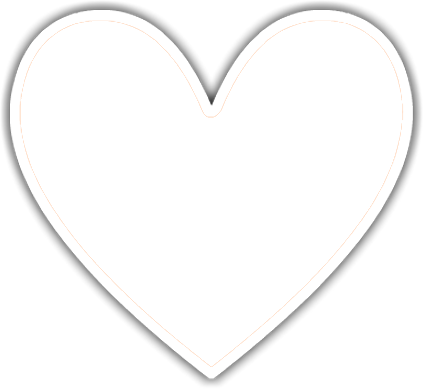
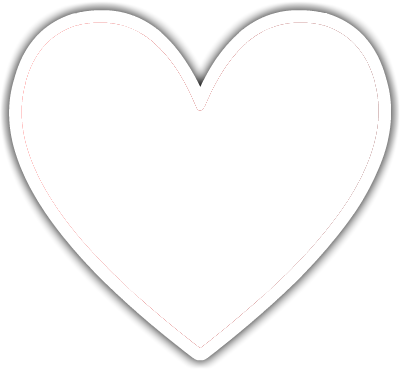
smaller heart with ticker border

diff --git a/public/js/directives.js b/public/js/directives.js
@@ -16,8 +16,7 @@ define(['angular'], function (angular) {
 			}
 		};
 	}).directive('heartProfile', function() {
-		var positions=[{x:199,y:367,b:1,r:1,c:1},{x:213,y:367,b:1,r:1,c:2},{x:181,y:353,b:1,r:2,c:1},{x:195,y:353,b:0,r:2,c:2},{x:209,y:353,b:0,r:2,c:3},{x:223,y:353,b:1,r:2,c:4},{x:163,y:339,b:1,r:3,c:1},{x:177,y:339,b:0,r:3,c:2},{x:191,y:339,b:0,r:3,c:3},{x:205,y:339,b:0,r:3,c:4},{x:219,y:339,b:0,r:3,c:5},{x:233,y:339,b:0,r:3,c:6},{x:247,y:339,b:1,r:3,c:7},{x:148,y:325,b:1,r:4,c:1},{x:162,y:325,b:0,r:4,c:2},{x:176,y:325,b:0,r:4,c:3},{x:190,y:325,b:0,r:4,c:4},{x:204,y:325,b:0,r:4,c:5},{x:218,y:325,b:0,r:4,c:6},{x:232,y:325,b:0,r:4,c:7},{x:246,y:325,b:0,r:4,c:8},{x:260,y:325,b:1,r:4,c:9},{x:132,y:311,b:1,r:5,c:1},{x:146,y:311,b:0,r:5,c:2},{x:160,y:311,b:0,r:5,c:3},{x:174,y:311,b:0,r:5,c:4},{x:188,y:311,b:0,r:5,c:5},{x:202,y:311,b:0,r:5,c:6},{x:216,y:311,b:0,r:5,c:7},{x:230,y:311,b:0,r:5,c:8},{x:244,y:311,b:0,r:5,c:9},{x:258,y:311,b:0,r:5,c:10},{x:272,y:311,b:1,r:5,c:11},{x:117,y:297,b:1,r:6,c:1},{x:131,y:297,b:0,r:6,c:2},{x:145,y:297,b:0,r:6,c:3},{x:159,y:297,b:0,r:6,c:4},{x:173,y:297,b:0,r:6,c:5},{x:187,y:297,b:0,r:6,c:6},{x:201,y:297,b:0,r:6,c:7},{x:215,y:297,b:0,r:6,c:8},{x:229,y:297,b:0,r:6,c:9},{x:243,y:297,b:0,r:6,c:10},{x:257,y:297,b:0,r:6,c:11},{x:271,y:297,b:0,r:6,c:12},{x:285,y:297,b:1,r:6,c:13},{x:104,y:283,b:1,r:7,c:1},{x:118,y:283,b:0,r:7,c:2},{x:132,y:283,b:0,r:7,c:3},{x:146,y:283,b:0,r:7,c:4},{x:160,y:283,b:0,r:7,c:5},{x:174,y:283,b:0,r:7,c:6},{x:188,y:283,b:0,r:7,c:7},{x:202,y:283,b:0,r:7,c:8},{x:216,y:283,b:0,r:7,c:9},{x:230,y:283,b:0,r:7,c:10},{x:244,y:283,b:0,r:7,c:11},{x:258,y:283,b:0,r:7,c:12},{x:272,y:283,b:0,r:7,c:13},{x:286,y:283,b:0,r:7,c:14},{x:300,y:283,b:1,r:7,c:15},{x:91,y:269,b:1,r:8,c:1},{x:105,y:269,b:0,r:8,c:2},{x:119,y:269,b:0,r:8,c:3},{x:133,y:269,b:0,r:8,c:4},{x:147,y:269,b:0,r:8,c:5},{x:161,y:269,b:0,r:8,c:6},{x:175,y:269,b:0,r:8,c:7},{x:189,y:269,b:0,r:8,c:8},{x:203,y:269,b:0,r:8,c:9},{x:217,y:269,b:0,r:8,c:10},{x:231,y:269,b:0,r:8,c:11},{x:245,y:269,b:0,r:8,c:12},{x:259,y:269,b:0,r:8,c:13},{x:273,y:269,b:0,r:8,c:14},{x:287,y:269,b:0,r:8,c:15},{x:301,y:269,b:0,r:8,c:16},{x:315,y:269,b:1,r:8,c:17},{x:78,y:255,b:1,r:9,c:1},{x:92,y:255,b:0,r:9,c:2},{x:106,y:255,b:0,r:9,c:3},{x:120,y:255,b:0,r:9,c:4},{x:134,y:255,b:0,r:9,c:5},{x:148,y:255,b:0,r:9,c:6},{x:162,y:255,b:0,r:9,c:7},{x:176,y:255,b:0,r:9,c:8},{x:190,y:255,b:0,r:9,c:9},{x:204,y:255,b:0,r:9,c:10},{x:218,y:255,b:0,r:9,c:11},{x:232,y:255,b:0,r:9,c:12},{x:246,y:255,b:0,r:9,c:13},{x:260,y:255,b:0,r:9,c:14},{x:274,y:255,b:0,r:9,c:15},{x:288,y:255,b:0,r:9,c:16},{x:302,y:255,b:0,r:9,c:17},{x:316,y:255,b:0,r:9,c:18},{x:330,y:255,b:1,r:9,c:19},{x:66,y:241,b:1,r:10,c:1},{x:80,y:241,b:0,r:10,c:2},{x:94,y:241,b:0,r:10,c:3},{x:108,y:241,b:0,r:10,c:4},{x:122,y:241,b:0,r:10,c:5},{x:136,y:241,b:0,r:10,c:6},{x:150,y:241,b:0,r:10,c:7},{x:164,y:241,b:0,r:10,c:8},{x:178,y:241,b:0,r:10,c:9},{x:192,y:241,b:0,r:10,c:10},{x:206,y:241,b:0,r:10,c:11},{x:220,y:241,b:0,r:10,c:12},{x:234,y:241,b:0,r:10,c:13},{x:248,y:241,b:0,r:10,c:14},{x:262,y:241,b:0,r:10,c:15},{x:276,y:241,b:0,r:10,c:16},{x:290,y:241,b:0,r:10,c:17},{x:304,y:241,b:0,r:10,c:18},{x:318,y:241,b:0,r:10,c:19},{x:332,y:241,b:0,r:10,c:20},{x:346,y:241,b:1,r:10,c:21},{x:57,y:227,b:1,r:11,c:1},{x:71,y:227,b:0,r:11,c:2},{x:85,y:227,b:0,r:11,c:3},{x:99,y:227,b:0,r:11,c:4},{x:113,y:227,b:0,r:11,c:5},{x:127,y:227,b:0,r:11,c:6},{x:141,y:227,b:0,r:11,c:7},{x:155,y:227,b:0,r:11,c:8},{x:169,y:227,b:0,r:11,c:9},{x:183,y:227,b:0,r:11,c:10},{x:197,y:227,b:0,r:11,c:11},{x:211,y:227,b:0,r:11,c:12},{x:225,y:227,b:0,r:11,c:13},{x:239,y:227,b:0,r:11,c:14},{x:253,y:227,b:0,r:11,c:15},{x:267,y:227,b:0,r:11,c:16},{x:281,y:227,b:0,r:11,c:17},{x:295,y:227,b:0,r:11,c:18},{x:309,y:227,b:0,r:11,c:19},{x:323,y:227,b:0,r:11,c:20},{x:337,y:227,b:0,r:11,c:21},{x:351,y:227,b:1,r:11,c:22},{x:47,y:213,b:1,r:12,c:1},{x:61,y:213,b:0,r:12,c:2},{x:75,y:213,b:0,r:12,c:3},{x:89,y:213,b:0,r:12,c:4},{x:103,y:213,b:0,r:12,c:5},{x:117,y:213,b:0,r:12,c:6},{x:131,y:213,b:0,r:12,c:7},{x:145,y:213,b:0,r:12,c:8},{x:159,y:213,b:0,r:12,c:9},{x:173,y:213,b:0,r:12,c:10},{x:187,y:213,b:0,r:12,c:11},{x:201,y:213,b:0,r:12,c:12},{x:215,y:213,b:0,r:12,c:13},{x:229,y:213,b:0,r:12,c:14},{x:243,y:213,b:0,r:12,c:15},{x:257,y:213,b:0,r:12,c:16},{x:271,y:213,b:0,r:12,c:17},{x:285,y:213,b:0,r:12,c:18},{x:299,y:213,b:0,r:12,c:19},{x:313,y:213,b:0,r:12,c:20},{x:327,y:213,b:0,r:12,c:21},{x:341,y:213,b:0,r:12,c:22},{x:355,y:213,b:1,r:12,c:23},{x:38,y:199,b:1,r:13,c:1},{x:52,y:199,b:0,r:13,c:2},{x:66,y:199,b:0,r:13,c:3},{x:80,y:199,b:0,r:13,c:4},{x:94,y:199,b:0,r:13,c:5},{x:108,y:199,b:0,r:13,c:6},{x:122,y:199,b:0,r:13,c:7},{x:136,y:199,b:0,r:13,c:8},{x:150,y:199,b:0,r:13,c:9},{x:164,y:199,b:0,r:13,c:10},{x:178,y:199,b:0,r:13,c:11},{x:192,y:199,b:0,r:13,c:12},{x:206,y:199,b:0,r:13,c:13},{x:220,y:199,b:0,r:13,c:14},{x:234,y:199,b:0,r:13,c:15},{x:248,y:199,b:0,r:13,c:16},{x:262,y:199,b:0,r:13,c:17},{x:276,y:199,b:0,r:13,c:18},{x:290,y:199,b:0,r:13,c:19},{x:304,y:199,b:0,r:13,c:20},{x:318,y:199,b:0,r:13,c:21},{x:332,y:199,b:0,r:13,c:22},{x:346,y:199,b:0,r:13,c:23},{x:360,y:199,b:0,r:13,c:24},{x:374,y:199,b:1,r:13,c:25},{x:31,y:185,b:1,r:14,c:1},{x:45,y:185,b:0,r:14,c:2},{x:59,y:185,b:0,r:14,c:3},{x:73,y:185,b:0,r:14,c:4},{x:87,y:185,b:0,r:14,c:5},{x:101,y:185,b:0,r:14,c:6},{x:115,y:185,b:0,r:14,c:7},{x:129,y:185,b:0,r:14,c:8},{x:143,y:185,b:0,r:14,c:9},{x:157,y:185,b:0,r:14,c:10},{x:171,y:185,b:0,r:14,c:11},{x:185,y:185,b:0,r:14,c:12},{x:199,y:185,b:0,r:14,c:13},{x:213,y:185,b:0,r:14,c:14},{x:227,y:185,b:0,r:14,c:15},{x:241,y:185,b:0,r:14,c:16},{x:255,y:185,b:0,r:14,c:17},{x:269,y:185,b:0,r:14,c:18},{x:283,y:185,b:0,r:14,c:19},{x:297,y:185,b:0,r:14,c:20},{x:311,y:185,b:0,r:14,c:21},{x:325,y:185,b:0,r:14,c:22},{x:339,y:185,b:0,r:14,c:23},{x:353,y:185,b:0,r:14,c:24},{x:367,y:185,b:0,r:14,c:25},{x:381,y:185,b:1,r:14,c:26},{x:25,y:171,b:1,r:15,c:1},{x:39,y:171,b:0,r:15,c:2},{x:53,y:171,b:0,r:15,c:3},{x:67,y:171,b:0,r:15,c:4},{x:81,y:171,b:0,r:15,c:5},{x:95,y:171,b:0,r:15,c:6},{x:109,y:171,b:0,r:15,c:7},{x:123,y:171,b:0,r:15,c:8},{x:137,y:171,b:0,r:15,c:9},{x:151,y:171,b:0,r:15,c:10},{x:165,y:171,b:0,r:15,c:11},{x:179,y:171,b:0,r:15,c:12},{x:193,y:171,b:0,r:15,c:13},{x:207,y:171,b:0,r:15,c:14},{x:221,y:171,b:0,r:15,c:15},{x:235,y:171,b:0,r:15,c:16},{x:249,y:171,b:0,r:15,c:17},{x:263,y:171,b:0,r:15,c:18},{x:277,y:171,b:0,r:15,c:19},{x:291,y:171,b:0,r:15,c:20},{x:305,y:171,b:0,r:15,c:21},{x:319,y:171,b:0,r:15,c:22},{x:333,y:171,b:0,r:15,c:23},{x:347,y:171,b:0,r:15,c:24},{x:361,y:171,b:0,r:15,c:25},{x:375,y:171,b:0,r:15,c:26},{x:389,y:171,b:1,r:15,c:27},{x:20,y:157,b:1,r:16,c:1},{x:34,y:157,b:0,r:16,c:2},{x:48,y:157,b:0,r:16,c:3},{x:62,y:157,b:0,r:16,c:4},{x:76,y:157,b:0,r:16,c:5},{x:90,y:157,b:0,r:16,c:6},{x:104,y:157,b:0,r:16,c:7},{x:118,y:157,b:0,r:16,c:8},{x:132,y:157,b:0,r:16,c:9},{x:146,y:157,b:0,r:16,c:10},{x:160,y:157,b:0,r:16,c:11},{x:174,y:157,b:0,r:16,c:12},{x:188,y:157,b:0,r:16,c:13},{x:202,y:157,b:0,r:16,c:14},{x:216,y:157,b:0,r:16,c:15},{x:230,y:157,b:0,r:16,c:16},{x:244,y:157,b:0,r:16,c:17},{x:258,y:157,b:0,r:16,c:18},{x:272,y:157,b:0,r:16,c:19},{x:286,y:157,b:0,r:16,c:20},{x:300,y:157,b:0,r:16,c:21},{x:314,y:157,b:0,r:16,c:22},{x:328,y:157,b:0,r:16,c:23},{x:342,y:157,b:0,r:16,c:24},{x:356,y:157,b:0,r:16,c:25},{x:370,y:157,b:0,r:16,c:26},{x:384,y:157,b:1,r:16,c:27},{x:16,y:143,b:1,r:17,c:1},{x:30,y:143,b:0,r:17,c:2},{x:44,y:143,b:0,r:17,c:3},{x:58,y:143,b:0,r:17,c:4},{x:72,y:143,b:0,r:17,c:5},{x:86,y:143,b:0,r:17,c:6},{x:100,y:143,b:0,r:17,c:7},{x:114,y:143,b:0,r:17,c:8},{x:128,y:143,b:0,r:17,c:9},{x:142,y:143,b:0,r:17,c:10},{x:156,y:143,b:0,r:17,c:11},{x:170,y:143,b:0,r:17,c:12},{x:184,y:143,b:0,r:17,c:13},{x:198,y:143,b:0,r:17,c:14},{x:212,y:143,b:0,r:17,c:15},{x:226,y:143,b:0,r:17,c:16},{x:240,y:143,b:0,r:17,c:17},{x:254,y:143,b:0,r:17,c:18},{x:268,y:143,b:0,r:17,c:19},{x:282,y:143,b:0,r:17,c:20},{x:296,y:143,b:0,r:17,c:21},{x:310,y:143,b:0,r:17,c:22},{x:324,y:143,b:0,r:17,c:23},{x:338,y:143,b:0,r:17,c:24},{x:352,y:143,b:0,r:17,c:25},{x:366,y:143,b:0,r:17,c:26},{x:380,y:143,b:0,r:17,c:27},{x:394,y:143,b:1,r:17,c:28},{x:14,y:129,b:1,r:18,c:1},{x:28,y:129,b:0,r:18,c:2},{x:42,y:129,b:0,r:18,c:3},{x:56,y:129,b:0,r:18,c:4},{x:70,y:129,b:0,r:18,c:5},{x:84,y:129,b:0,r:18,c:6},{x:98,y:129,b:0,r:18,c:7},{x:112,y:129,b:0,r:18,c:8},{x:126,y:129,b:0,r:18,c:9},{x:140,y:129,b:0,r:18,c:10},{x:154,y:129,b:0,r:18,c:11},{x:168,y:129,b:0,r:18,c:12},{x:182,y:129,b:0,r:18,c:13},{x:196,y:129,b:0,r:18,c:14},{x:210,y:129,b:0,r:18,c:15},{x:224,y:129,b:0,r:18,c:16},{x:238,y:129,b:0,r:18,c:17},{x:252,y:129,b:0,r:18,c:18},{x:266,y:129,b:0,r:18,c:19},{x:280,y:129,b:0,r:18,c:20},{x:294,y:129,b:0,r:18,c:21},{x:308,y:129,b:0,r:18,c:22},{x:322,y:129,b:0,r:18,c:23},{x:336,y:129,b:0,r:18,c:24},{x:350,y:129,b:0,r:18,c:25},{x:364,y:129,b:0,r:18,c:26},{x:378,y:129,b:0,r:18,c:27},{x:392,y:129,b:1,r:18,c:28},{x:14,y:115,b:1,r:19,c:1},{x:28,y:115,b:0,r:19,c:2},{x:42,y:115,b:0,r:19,c:3},{x:56,y:115,b:0,r:19,c:4},{x:70,y:115,b:0,r:19,c:5},{x:84,y:115,b:0,r:19,c:6},{x:98,y:115,b:0,r:19,c:7},{x:112,y:115,b:0,r:19,c:8},{x:126,y:115,b:0,r:19,c:9},{x:140,y:115,b:0,r:19,c:10},{x:154,y:115,b:0,r:19,c:11},{x:168,y:115,b:0,r:19,c:12},{x:182,y:115,b:0,r:19,c:13},{x:196,y:115,b:1,r:19,c:14},{x:209,y:115,b:1,r:19,c:15},{x:223,y:115,b:1,r:19,c:16},{x:237,y:115,b:0,r:19,c:17},{x:251,y:115,b:0,r:19,c:18},{x:265,y:115,b:0,r:19,c:19},{x:279,y:115,b:0,r:19,c:20},{x:293,y:115,b:0,r:19,c:21},{x:307,y:115,b:0,r:19,c:22},{x:321,y:115,b:0,r:19,c:23},{x:335,y:115,b:0,r:19,c:24},{x:349,y:115,b:0,r:19,c:25},{x:363,y:115,b:0,r:19,c:26},{x:377,y:115,b:0,r:19,c:27},{x:391,y:115,b:1,r:19,c:28},{x:15,y:101,b:1,r:20,c:1},{x:29,y:101,b:0,r:20,c:2},{x:43,y:101,b:0,r:20,c:3},{x:57,y:101,b:0,r:20,c:4},{x:71,y:101,b:0,r:20,c:5},{x:85,y:101,b:0,r:20,c:6},{x:99,y:101,b:0,r:20,c:7},{x:113,y:101,b:0,r:20,c:8},{x:127,y:101,b:0,r:20,c:9},{x:141,y:101,b:0,r:20,c:10},{x:155,y:101,b:0,r:20,c:11},{x:169,y:101,b:0,r:20,c:12},{x:183,y:101,b:1,r:20,c:13},{x:223,y:101,b:1,r:20,c:15},{x:237,y:101,b:0,r:20,c:16},{x:251,y:101,b:0,r:20,c:17},{x:265,y:101,b:0,r:20,c:18},{x:279,y:101,b:0,r:20,c:19},{x:293,y:101,b:0,r:20,c:20},{x:307,y:101,b:0,r:20,c:21},{x:321,y:101,b:0,r:20,c:22},{x:335,y:101,b:0,r:20,c:23},{x:349,y:101,b:0,r:20,c:24},{x:363,y:101,b:0,r:20,c:25},{x:377,y:101,b:0,r:20,c:26},{x:391,y:101,b:1,r:20,c:27},{x:19,y:87,b:1,r:21,c:1},{x:33,y:87,b:0,r:21,c:2},{x:47,y:87,b:0,r:21,c:3},{x:61,y:87,b:0,r:21,c:4},{x:75,y:87,b:0,r:21,c:5},{x:89,y:87,b:0,r:21,c:6},{x:103,y:87,b:0,r:21,c:7},{x:117,y:87,b:0,r:21,c:8},{x:131,y:87,b:0,r:21,c:9},{x:145,y:87,b:0,r:21,c:10},{x:159,y:87,b:0,r:21,c:11},{x:173,y:87,b:1,r:21,c:12},{x:229,y:87,b:1,r:21,c:14},{x:243,y:87,b:0,r:21,c:15},{x:257,y:87,b:0,r:21,c:16},{x:271,y:87,b:0,r:21,c:17},{x:285,y:87,b:0,r:21,c:18},{x:299,y:87,b:0,r:21,c:19},{x:313,y:87,b:0,r:21,c:20},{x:327,y:87,b:0,r:21,c:21},{x:341,y:87,b:0,r:21,c:22},{x:355,y:87,b:0,r:21,c:23},{x:369,y:87,b:0,r:21,c:24},{x:383,y:87,b:1,r:21,c:25},{x:25,y:73,b:1,r:22,c:1},{x:39,y:73,b:0,r:22,c:2},{x:53,y:73,b:0,r:22,c:3},{x:67,y:73,b:0,r:22,c:4},{x:81,y:73,b:0,r:22,c:5},{x:95,y:73,b:0,r:22,c:6},{x:109,y:73,b:0,r:22,c:7},{x:123,y:73,b:0,r:22,c:8},{x:137,y:73,b:0,r:22,c:9},{x:151,y:73,b:0,r:22,c:10},{x:165,y:73,b:1,r:22,c:11},{x:238,y:73,b:1,r:22,c:13},{x:252,y:73,b:0,r:22,c:14},{x:266,y:73,b:0,r:22,c:15},{x:280,y:73,b:0,r:22,c:16},{x:294,y:73,b:0,r:22,c:17},{x:308,y:73,b:0,r:22,c:18},{x:322,y:73,b:0,r:22,c:19},{x:336,y:73,b:0,r:22,c:20},{x:350,y:73,b:0,r:22,c:21},{x:364,y:73,b:0,r:22,c:22},{x:378,y:73,b:1,r:22,c:23},{x:32,y:59,b:1,r:23,c:1},{x:46,y:59,b:0,r:23,c:2},{x:60,y:59,b:0,r:23,c:3},{x:74,y:59,b:0,r:23,c:4},{x:88,y:59,b:0,r:23,c:5},{x:102,y:59,b:0,r:23,c:6},{x:116,y:59,b:0,r:23,c:7},{x:130,y:59,b:0,r:23,c:8},{x:144,y:59,b:0,r:23,c:9},{x:158,y:59,b:1,r:23,c:10},{x:249,y:59,b:1,r:23,c:12},{x:263,y:59,b:0,r:23,c:13},{x:277,y:59,b:0,r:23,c:14},{x:291,y:59,b:0,r:23,c:15},{x:305,y:59,b:0,r:23,c:16},{x:319,y:59,b:0,r:23,c:17},{x:333,y:59,b:0,r:23,c:18},{x:347,y:59,b:0,r:23,c:19},{x:361,y:59,b:0,r:23,c:20},{x:375,y:59,b:1,r:23,c:21},{x:44,y:45,b:1,r:24,c:1},{x:58,y:45,b:0,r:24,c:2},{x:72,y:45,b:0,r:24,c:3},{x:86,y:45,b:0,r:24,c:4},{x:100,y:45,b:0,r:24,c:5},{x:114,y:45,b:0,r:24,c:6},{x:128,y:45,b:0,r:24,c:7},{x:142,y:45,b:1,r:24,c:8},{x:265,y:45,b:1,r:24,c:10},{x:279,y:45,b:0,r:24,c:11},{x:293,y:45,b:0,r:24,c:12},{x:307,y:45,b:0,r:24,c:13},{x:321,y:45,b:0,r:24,c:14},{x:335,y:45,b:0,r:24,c:15},{x:349,y:45,b:0,r:24,c:16},{x:363,y:45,b:1,r:24,c:17},{x:65,y:31,b:1,r:25,c:1},{x:79,y:31,b:1,r:25,c:2},{x:93,y:31,b:1,r:25,c:3},{x:107,y:31,b:1,r:25,c:4},{x:121,y:31,b:1,r:25,c:5},{x:285,y:31,b:1,r:25,c:6},{x:299,y:31,b:1,r:25,c:7},{x:313,y:31,b:1,r:25,c:8},{x:327,y:31,b:1,r:25,c:9},{x:341,y:31,b:1,r:25,c:10}];
-		
+		var positions=[{x:188,y:354,b:1,r:1,c:1},{x:200,y:354,b:1,r:1,c:2},{x:172,y:340,b:1,r:2,c:1},{x:186,y:340,b:1,r:2,c:2},{x:200,y:340,b:1,r:2,c:3},{x:214,y:340,b:1,r:2,c:4},{x:154,y:326,b:1,r:3,c:1},{x:168,y:326,b:1,r:3,c:2},{x:182,y:326,b:0,r:3,c:3},{x:196,y:326,b:0,r:3,c:4},{x:210,y:326,b:0,r:3,c:5},{x:224,y:326,b:1,r:3,c:6},{x:234,y:326,b:1,r:3,c:7},{x:139,y:312,b:1,r:4,c:1},{x:153,y:312,b:1,r:4,c:2},{x:167,y:312,b:0,r:4,c:3},{x:181,y:312,b:0,r:4,c:4},{x:195,y:312,b:0,r:4,c:5},{x:209,y:312,b:0,r:4,c:6},{x:223,y:312,b:0,r:4,c:7},{x:237,y:312,b:1,r:4,c:8},{x:251,y:312,b:1,r:4,c:9},{x:123,y:298,b:1,r:5,c:1},{x:137,y:298,b:0,r:5,c:2},{x:151,y:298,b:0,r:5,c:3},{x:165,y:298,b:0,r:5,c:4},{x:179,y:298,b:0,r:5,c:5},{x:193,y:298,b:0,r:5,c:6},{x:207,y:298,b:0,r:5,c:7},{x:221,y:298,b:0,r:5,c:8},{x:235,y:298,b:0,r:5,c:9},{x:249,y:298,b:0,r:5,c:10},{x:263,y:298,b:1,r:5,c:11},{x:109,y:284,b:1,r:6,c:1},{x:123,y:284,b:0,r:6,c:2},{x:137,y:284,b:0,r:6,c:3},{x:151,y:284,b:0,r:6,c:4},{x:165,y:284,b:0,r:6,c:5},{x:179,y:284,b:0,r:6,c:6},{x:193,y:284,b:0,r:6,c:7},{x:207,y:284,b:0,r:6,c:8},{x:221,y:284,b:0,r:6,c:9},{x:235,y:284,b:0,r:6,c:10},{x:249,y:284,b:0,r:6,c:11},{x:263,y:284,b:0,r:6,c:12},{x:277,y:284,b:1,r:6,c:13},{x:97,y:270,b:1,r:7,c:1},{x:111,y:270,b:0,r:7,c:2},{x:125,y:270,b:0,r:7,c:3},{x:139,y:270,b:0,r:7,c:4},{x:153,y:270,b:0,r:7,c:5},{x:167,y:270,b:0,r:7,c:6},{x:181,y:270,b:0,r:7,c:7},{x:195,y:270,b:0,r:7,c:8},{x:209,y:270,b:0,r:7,c:9},{x:223,y:270,b:0,r:7,c:10},{x:237,y:270,b:0,r:7,c:11},{x:251,y:270,b:0,r:7,c:12},{x:265,y:270,b:0,r:7,c:13},{x:279,y:270,b:1,r:7,c:14},{x:293,y:270,b:1,r:7,c:15},{x:84,y:256,b:1,r:8,c:1},{x:98,y:256,b:0,r:8,c:2},{x:112,y:256,b:0,r:8,c:3},{x:126,y:256,b:0,r:8,c:4},{x:140,y:256,b:0,r:8,c:5},{x:154,y:256,b:0,r:8,c:6},{x:168,y:256,b:0,r:8,c:7},{x:182,y:256,b:0,r:8,c:8},{x:196,y:256,b:0,r:8,c:9},{x:210,y:256,b:0,r:8,c:10},{x:224,y:256,b:0,r:8,c:11},{x:238,y:256,b:0,r:8,c:12},{x:252,y:256,b:0,r:8,c:13},{x:266,y:256,b:0,r:8,c:14},{x:280,y:256,b:0,r:8,c:15},{x:294,y:256,b:1,r:8,c:16},{x:308,y:256,b:1,r:8,c:17},{x:72,y:242,b:1,r:9,c:1},{x:86,y:242,b:0,r:9,c:2},{x:100,y:242,b:0,r:9,c:3},{x:114,y:242,b:0,r:9,c:4},{x:128,y:242,b:0,r:9,c:5},{x:142,y:242,b:0,r:9,c:6},{x:156,y:242,b:0,r:9,c:7},{x:170,y:242,b:0,r:9,c:8},{x:184,y:242,b:0,r:9,c:9},{x:198,y:242,b:0,r:9,c:10},{x:212,y:242,b:0,r:9,c:11},{x:226,y:242,b:0,r:9,c:12},{x:240,y:242,b:0,r:9,c:13},{x:254,y:242,b:0,r:9,c:14},{x:268,y:242,b:0,r:9,c:15},{x:282,y:242,b:0,r:9,c:16},{x:296,y:242,b:0,r:9,c:17},{x:310,y:242,b:1,r:9,c:18},{x:320,y:242,b:1,r:9,c:19},{x:62,y:228,b:1,r:10,c:1},{x:76,y:228,b:0,r:10,c:2},{x:90,y:228,b:0,r:10,c:3},{x:104,y:228,b:0,r:10,c:4},{x:118,y:228,b:0,r:10,c:5},{x:132,y:228,b:0,r:10,c:6},{x:146,y:228,b:0,r:10,c:7},{x:160,y:228,b:0,r:10,c:8},{x:174,y:228,b:0,r:10,c:9},{x:188,y:228,b:0,r:10,c:10},{x:202,y:228,b:0,r:10,c:11},{x:216,y:228,b:0,r:10,c:12},{x:230,y:228,b:0,r:10,c:13},{x:244,y:228,b:0,r:10,c:14},{x:258,y:228,b:0,r:10,c:15},{x:272,y:228,b:0,r:10,c:16},{x:286,y:228,b:0,r:10,c:17},{x:300,y:228,b:0,r:10,c:18},{x:314,y:228,b:0,r:10,c:19},{x:328,y:228,b:1,r:10,c:20},{x:46,y:214,b:1,r:11,c:1},{x:60,y:214,b:0,r:11,c:2},{x:74,y:214,b:0,r:11,c:3},{x:88,y:214,b:0,r:11,c:4},{x:102,y:214,b:0,r:11,c:5},{x:116,y:214,b:0,r:11,c:6},{x:130,y:214,b:0,r:11,c:7},{x:144,y:214,b:0,r:11,c:8},{x:158,y:214,b:0,r:11,c:9},{x:172,y:214,b:0,r:11,c:10},{x:186,y:214,b:0,r:11,c:11},{x:200,y:214,b:0,r:11,c:12},{x:214,y:214,b:0,r:11,c:13},{x:228,y:214,b:0,r:11,c:14},{x:242,y:214,b:0,r:11,c:15},{x:256,y:214,b:0,r:11,c:16},{x:270,y:214,b:0,r:11,c:17},{x:284,y:214,b:0,r:11,c:18},{x:298,y:214,b:0,r:11,c:19},{x:312,y:214,b:0,r:11,c:20},{x:326,y:214,b:1,r:11,c:21},{x:340,y:214,b:1,r:11,c:22},{x:44,y:200,b:1,r:12,c:1},{x:58,y:200,b:0,r:12,c:2},{x:72,y:200,b:0,r:12,c:3},{x:86,y:200,b:0,r:12,c:4},{x:100,y:200,b:0,r:12,c:5},{x:114,y:200,b:0,r:12,c:6},{x:128,y:200,b:0,r:12,c:7},{x:142,y:200,b:0,r:12,c:8},{x:156,y:200,b:0,r:12,c:9},{x:170,y:200,b:0,r:12,c:10},{x:184,y:200,b:0,r:12,c:11},{x:198,y:200,b:0,r:12,c:12},{x:212,y:200,b:0,r:12,c:13},{x:226,y:200,b:0,r:12,c:14},{x:240,y:200,b:0,r:12,c:15},{x:254,y:200,b:0,r:12,c:16},{x:268,y:200,b:0,r:12,c:17},{x:282,y:200,b:0,r:12,c:18},{x:296,y:200,b:0,r:12,c:19},{x:310,y:200,b:0,r:12,c:20},{x:324,y:200,b:1,r:12,c:21},{x:338,y:200,b:1,r:12,c:22},{x:348,y:200,b:1,r:12,c:23},{x:36,y:186,b:1,r:13,c:1},{x:50,y:186,b:0,r:13,c:2},{x:64,y:186,b:0,r:13,c:3},{x:78,y:186,b:0,r:13,c:4},{x:92,y:186,b:0,r:13,c:5},{x:106,y:186,b:0,r:13,c:6},{x:120,y:186,b:0,r:13,c:7},{x:134,y:186,b:0,r:13,c:8},{x:148,y:186,b:0,r:13,c:9},{x:162,y:186,b:0,r:13,c:10},{x:176,y:186,b:0,r:13,c:11},{x:190,y:186,b:0,r:13,c:12},{x:204,y:186,b:0,r:13,c:13},{x:218,y:186,b:0,r:13,c:14},{x:232,y:186,b:0,r:13,c:15},{x:246,y:186,b:0,r:13,c:16},{x:260,y:186,b:0,r:13,c:17},{x:274,y:186,b:0,r:13,c:18},{x:288,y:186,b:0,r:13,c:19},{x:302,y:186,b:0,r:13,c:20},{x:316,y:186,b:0,r:13,c:21},{x:330,y:186,b:0,r:13,c:22},{x:344,y:186,b:1,r:13,c:23},{x:356,y:186,b:1,r:13,c:24},{x:31,y:172,b:1,r:14,c:1},{x:45,y:172,b:0,r:14,c:2},{x:59,y:172,b:0,r:14,c:3},{x:73,y:172,b:0,r:14,c:4},{x:87,y:172,b:0,r:14,c:5},{x:101,y:172,b:0,r:14,c:6},{x:115,y:172,b:0,r:14,c:7},{x:129,y:172,b:0,r:14,c:8},{x:143,y:172,b:0,r:14,c:9},{x:157,y:172,b:0,r:14,c:10},{x:171,y:172,b:0,r:14,c:11},{x:185,y:172,b:0,r:14,c:12},{x:199,y:172,b:0,r:14,c:13},{x:213,y:172,b:0,r:14,c:14},{x:227,y:172,b:0,r:14,c:15},{x:241,y:172,b:0,r:14,c:16},{x:255,y:172,b:0,r:14,c:17},{x:269,y:172,b:0,r:14,c:18},{x:283,y:172,b:0,r:14,c:19},{x:297,y:172,b:0,r:14,c:20},{x:311,y:172,b:0,r:14,c:21},{x:325,y:172,b:0,r:14,c:22},{x:339,y:172,b:0,r:14,c:23},{x:353,y:172,b:1,r:14,c:24},{x:363,y:172,b:1,r:14,c:25},{x:25,y:158,b:1,r:15,c:1},{x:39,y:158,b:0,r:15,c:2},{x:53,y:158,b:0,r:15,c:3},{x:67,y:158,b:0,r:15,c:4},{x:81,y:158,b:0,r:15,c:5},{x:95,y:158,b:0,r:15,c:6},{x:109,y:158,b:0,r:15,c:7},{x:123,y:158,b:0,r:15,c:8},{x:137,y:158,b:0,r:15,c:9},{x:151,y:158,b:0,r:15,c:10},{x:165,y:158,b:0,r:15,c:11},{x:179,y:158,b:0,r:15,c:12},{x:193,y:158,b:0,r:15,c:13},{x:207,y:158,b:0,r:15,c:14},{x:221,y:158,b:0,r:15,c:15},{x:235,y:158,b:0,r:15,c:16},{x:249,y:158,b:0,r:15,c:17},{x:263,y:158,b:0,r:15,c:18},{x:277,y:158,b:0,r:15,c:19},{x:291,y:158,b:0,r:15,c:20},{x:305,y:158,b:0,r:15,c:21},{x:319,y:158,b:0,r:15,c:22},{x:333,y:158,b:0,r:15,c:23},{x:347,y:158,b:0,r:15,c:24},{x:361,y:158,b:1,r:15,c:25},{x:21,y:144,b:1,r:16,c:1},{x:35,y:144,b:0,r:16,c:2},{x:49,y:144,b:0,r:16,c:3},{x:63,y:144,b:0,r:16,c:4},{x:77,y:144,b:0,r:16,c:5},{x:91,y:144,b:0,r:16,c:6},{x:105,y:144,b:0,r:16,c:7},{x:119,y:144,b:0,r:16,c:8},{x:133,y:144,b:0,r:16,c:9},{x:147,y:144,b:0,r:16,c:10},{x:161,y:144,b:0,r:16,c:11},{x:175,y:144,b:0,r:16,c:12},{x:189,y:144,b:0,r:16,c:13},{x:203,y:144,b:0,r:16,c:14},{x:217,y:144,b:0,r:16,c:15},{x:231,y:144,b:0,r:16,c:16},{x:245,y:144,b:0,r:16,c:17},{x:259,y:144,b:0,r:16,c:18},{x:273,y:144,b:0,r:16,c:19},{x:287,y:144,b:0,r:16,c:20},{x:301,y:144,b:0,r:16,c:21},{x:315,y:144,b:0,r:16,c:22},{x:329,y:144,b:0,r:16,c:23},{x:343,y:144,b:0,r:16,c:24},{x:357,y:144,b:0,r:16,c:25},{x:371,y:144,b:1,r:16,c:26},{x:19,y:130,b:1,r:17,c:1},{x:33,y:130,b:0,r:17,c:2},{x:47,y:130,b:0,r:17,c:3},{x:61,y:130,b:0,r:17,c:4},{x:75,y:130,b:0,r:17,c:5},{x:89,y:130,b:0,r:17,c:6},{x:103,y:130,b:0,r:17,c:7},{x:117,y:130,b:0,r:17,c:8},{x:131,y:130,b:0,r:17,c:9},{x:145,y:130,b:0,r:17,c:10},{x:159,y:130,b:0,r:17,c:11},{x:173,y:130,b:0,r:17,c:12},{x:187,y:130,b:0,r:17,c:13},{x:201,y:130,b:0,r:17,c:14},{x:215,y:130,b:0,r:17,c:15},{x:229,y:130,b:0,r:17,c:16},{x:243,y:130,b:0,r:17,c:17},{x:257,y:130,b:0,r:17,c:18},{x:271,y:130,b:0,r:17,c:19},{x:285,y:130,b:0,r:17,c:20},{x:299,y:130,b:0,r:17,c:21},{x:313,y:130,b:0,r:17,c:22},{x:327,y:130,b:0,r:17,c:23},{x:341,y:130,b:0,r:17,c:24},{x:355,y:130,b:0,r:17,c:25},{x:369,y:130,b:1,r:17,c:26},{x:19,y:116,b:1,r:18,c:1},{x:33,y:116,b:0,r:18,c:2},{x:47,y:116,b:0,r:18,c:3},{x:61,y:116,b:0,r:18,c:4},{x:75,y:116,b:0,r:18,c:5},{x:89,y:116,b:0,r:18,c:6},{x:103,y:116,b:0,r:18,c:7},{x:117,y:116,b:0,r:18,c:8},{x:131,y:116,b:0,r:18,c:9},{x:145,y:116,b:0,r:18,c:10},{x:159,y:116,b:0,r:18,c:11},{x:173,y:116,b:0,r:18,c:12},{x:187,y:116,b:1,r:18,c:13},{x:201,y:116,b:1,r:18,c:14},{x:215,y:116,b:0,r:18,c:15},{x:229,y:116,b:0,r:18,c:16},{x:243,y:116,b:0,r:18,c:17},{x:257,y:116,b:0,r:18,c:18},{x:271,y:116,b:0,r:18,c:19},{x:285,y:116,b:0,r:18,c:20},{x:299,y:116,b:0,r:18,c:21},{x:313,y:116,b:0,r:18,c:22},{x:327,y:116,b:0,r:18,c:23},{x:341,y:116,b:0,r:18,c:24},{x:355,y:116,b:0,r:18,c:25},{x:369,y:116,b:1,r:18,c:26},{x:20,y:102,b:1,r:19,c:1},{x:34,y:102,b:0,r:19,c:2},{x:48,y:102,b:0,r:19,c:3},{x:62,y:102,b:0,r:19,c:4},{x:76,y:102,b:0,r:19,c:5},{x:90,y:102,b:0,r:19,c:6},{x:104,y:102,b:0,r:19,c:7},{x:118,y:102,b:0,r:19,c:8},{x:132,y:102,b:0,r:19,c:9},{x:146,y:102,b:0,r:19,c:10},{x:160,y:102,b:0,r:19,c:11},{x:174,y:102,b:1,r:19,c:12},{x:188,y:102,b:1,r:19,c:13},{x:202,y:102,b:1,r:19,c:14},{x:216,y:102,b:1,r:19,c:15},{x:230,y:102,b:0,r:19,c:16},{x:244,y:102,b:0,r:19,c:17},{x:258,y:102,b:0,r:19,c:18},{x:272,y:102,b:0,r:19,c:19},{x:286,y:102,b:0,r:19,c:20},{x:300,y:102,b:0,r:19,c:21},{x:314,y:102,b:0,r:19,c:22},{x:328,y:102,b:0,r:19,c:23},{x:342,y:102,b:0,r:19,c:24},{x:356,y:102,b:0,r:19,c:25},{x:370,y:102,b:1,r:19,c:25},{x:23,y:88,b:1,r:20,c:1},{x:37,y:88,b:0,r:20,c:2},{x:51,y:88,b:0,r:20,c:3},{x:65,y:88,b:0,r:20,c:4},{x:79,y:88,b:0,r:20,c:5},{x:93,y:88,b:0,r:20,c:6},{x:107,y:88,b:0,r:20,c:7},{x:121,y:88,b:0,r:20,c:8},{x:135,y:88,b:0,r:20,c:9},{x:149,y:88,b:0,r:20,c:10},{x:163,y:88,b:0,r:20,c:11},{x:177,y:88,b:1,r:20,c:12},{x:210,y:88,b:1,r:20,c:13},{x:224,y:88,b:0,r:20,c:14},{x:238,y:88,b:0,r:20,c:15},{x:252,y:88,b:0,r:20,c:16},{x:266,y:88,b:0,r:20,c:17},{x:280,y:88,b:0,r:20,c:18},{x:294,y:88,b:0,r:20,c:19},{x:308,y:88,b:0,r:20,c:20},{x:322,y:88,b:0,r:20,c:21},{x:336,y:88,b:0,r:20,c:22},{x:350,y:88,b:0,r:20,c:23},{x:364,y:88,b:1,r:20,c:24},{x:28,y:74,b:1,r:21,c:1},{x:42,y:74,b:0,r:21,c:2},{x:56,y:74,b:0,r:21,c:3},{x:70,y:74,b:0,r:21,c:4},{x:84,y:74,b:0,r:21,c:5},{x:98,y:74,b:0,r:21,c:6},{x:112,y:74,b:0,r:21,c:7},{x:126,y:74,b:0,r:21,c:8},{x:140,y:74,b:0,r:21,c:9},{x:154,y:74,b:0,r:21,c:10},{x:168,y:74,b:1,r:21,c:11},{x:216,y:74,b:1,r:21,c:12},{x:230,y:74,b:0,r:21,c:13},{x:244,y:74,b:0,r:21,c:14},{x:258,y:74,b:0,r:21,c:15},{x:272,y:74,b:0,r:21,c:16},{x:286,y:74,b:0,r:21,c:17},{x:300,y:74,b:0,r:21,c:18},{x:314,y:74,b:0,r:21,c:19},{x:328,y:74,b:0,r:21,c:20},{x:342,y:74,b:0,r:21,c:21},{x:356,y:74,b:1,r:21,c:21},{x:366,y:74,b:1,r:21,c:21},{x:34,y:60,b:1,r:22,c:1},{x:48,y:60,b:0,r:22,c:2},{x:62,y:60,b:0,r:22,c:3},{x:76,y:60,b:0,r:22,c:4},{x:90,y:60,b:0,r:22,c:5},{x:104,y:60,b:0,r:22,c:6},{x:118,y:60,b:0,r:22,c:7},{x:132,y:60,b:0,r:22,c:8},{x:146,y:60,b:1,r:22,c:9},{x:160,y:60,b:1,r:22,c:10},{x:228,y:60,b:1,r:22,c:11},{x:242,y:60,b:1,r:22,c:12},{x:256,y:60,b:0,r:22,c:13},{x:270,y:60,b:0,r:22,c:14},{x:284,y:60,b:0,r:22,c:15},{x:298,y:60,b:0,r:22,c:16},{x:312,y:60,b:0,r:22,c:17},{x:326,y:60,b:0,r:22,c:18},{x:340,y:60,b:0,r:22,c:19},{x:354,y:60,b:1,r:22,c:20},{x:44,y:46,b:1,r:23,c:1},{x:58,y:46,b:1,r:23,c:2},{x:72,y:46,b:0,r:23,c:3},{x:86,y:46,b:0,r:23,c:4},{x:100,y:46,b:0,r:23,c:5},{x:114,y:46,b:0,r:23,c:6},{x:128,y:46,b:1,r:23,c:7},{x:142,y:46,b:1,r:23,c:8},{x:244,y:46,b:1,r:23,c:9},{x:258,y:46,b:1,r:23,c:10},{x:272,y:46,b:0,r:23,c:11},{x:286,y:46,b:0,r:23,c:12},{x:300,y:46,b:0,r:23,c:13},{x:314,y:46,b:0,r:23,c:14},{x:328,y:46,b:1,r:23,c:14},{x:342,y:46,b:1,r:23,c:14},{x:60,y:32,b:1,r:23,c:1},{x:74,y:32,b:1,r:23,c:2},{x:88,y:32,b:1,r:23,c:3},{x:102,y:32,b:1,r:23,c:4},{x:116,y:32,b:1,r:23,c:5},{x:126,y:32,b:1,r:23,c:6},{x:264,y:32,b:1,r:23,c:7},{x:278,y:32,b:1,r:23,c:8},{x:292,y:32,b:1,r:23,c:9},{x:306,y:32,b:1,r:23,c:10},{x:320,y:32,b:1,r:23,c:11},{x:326,y:32,b:1,r:23,c:12}];		
   return {
     restrict: 'E',
     scope: {
